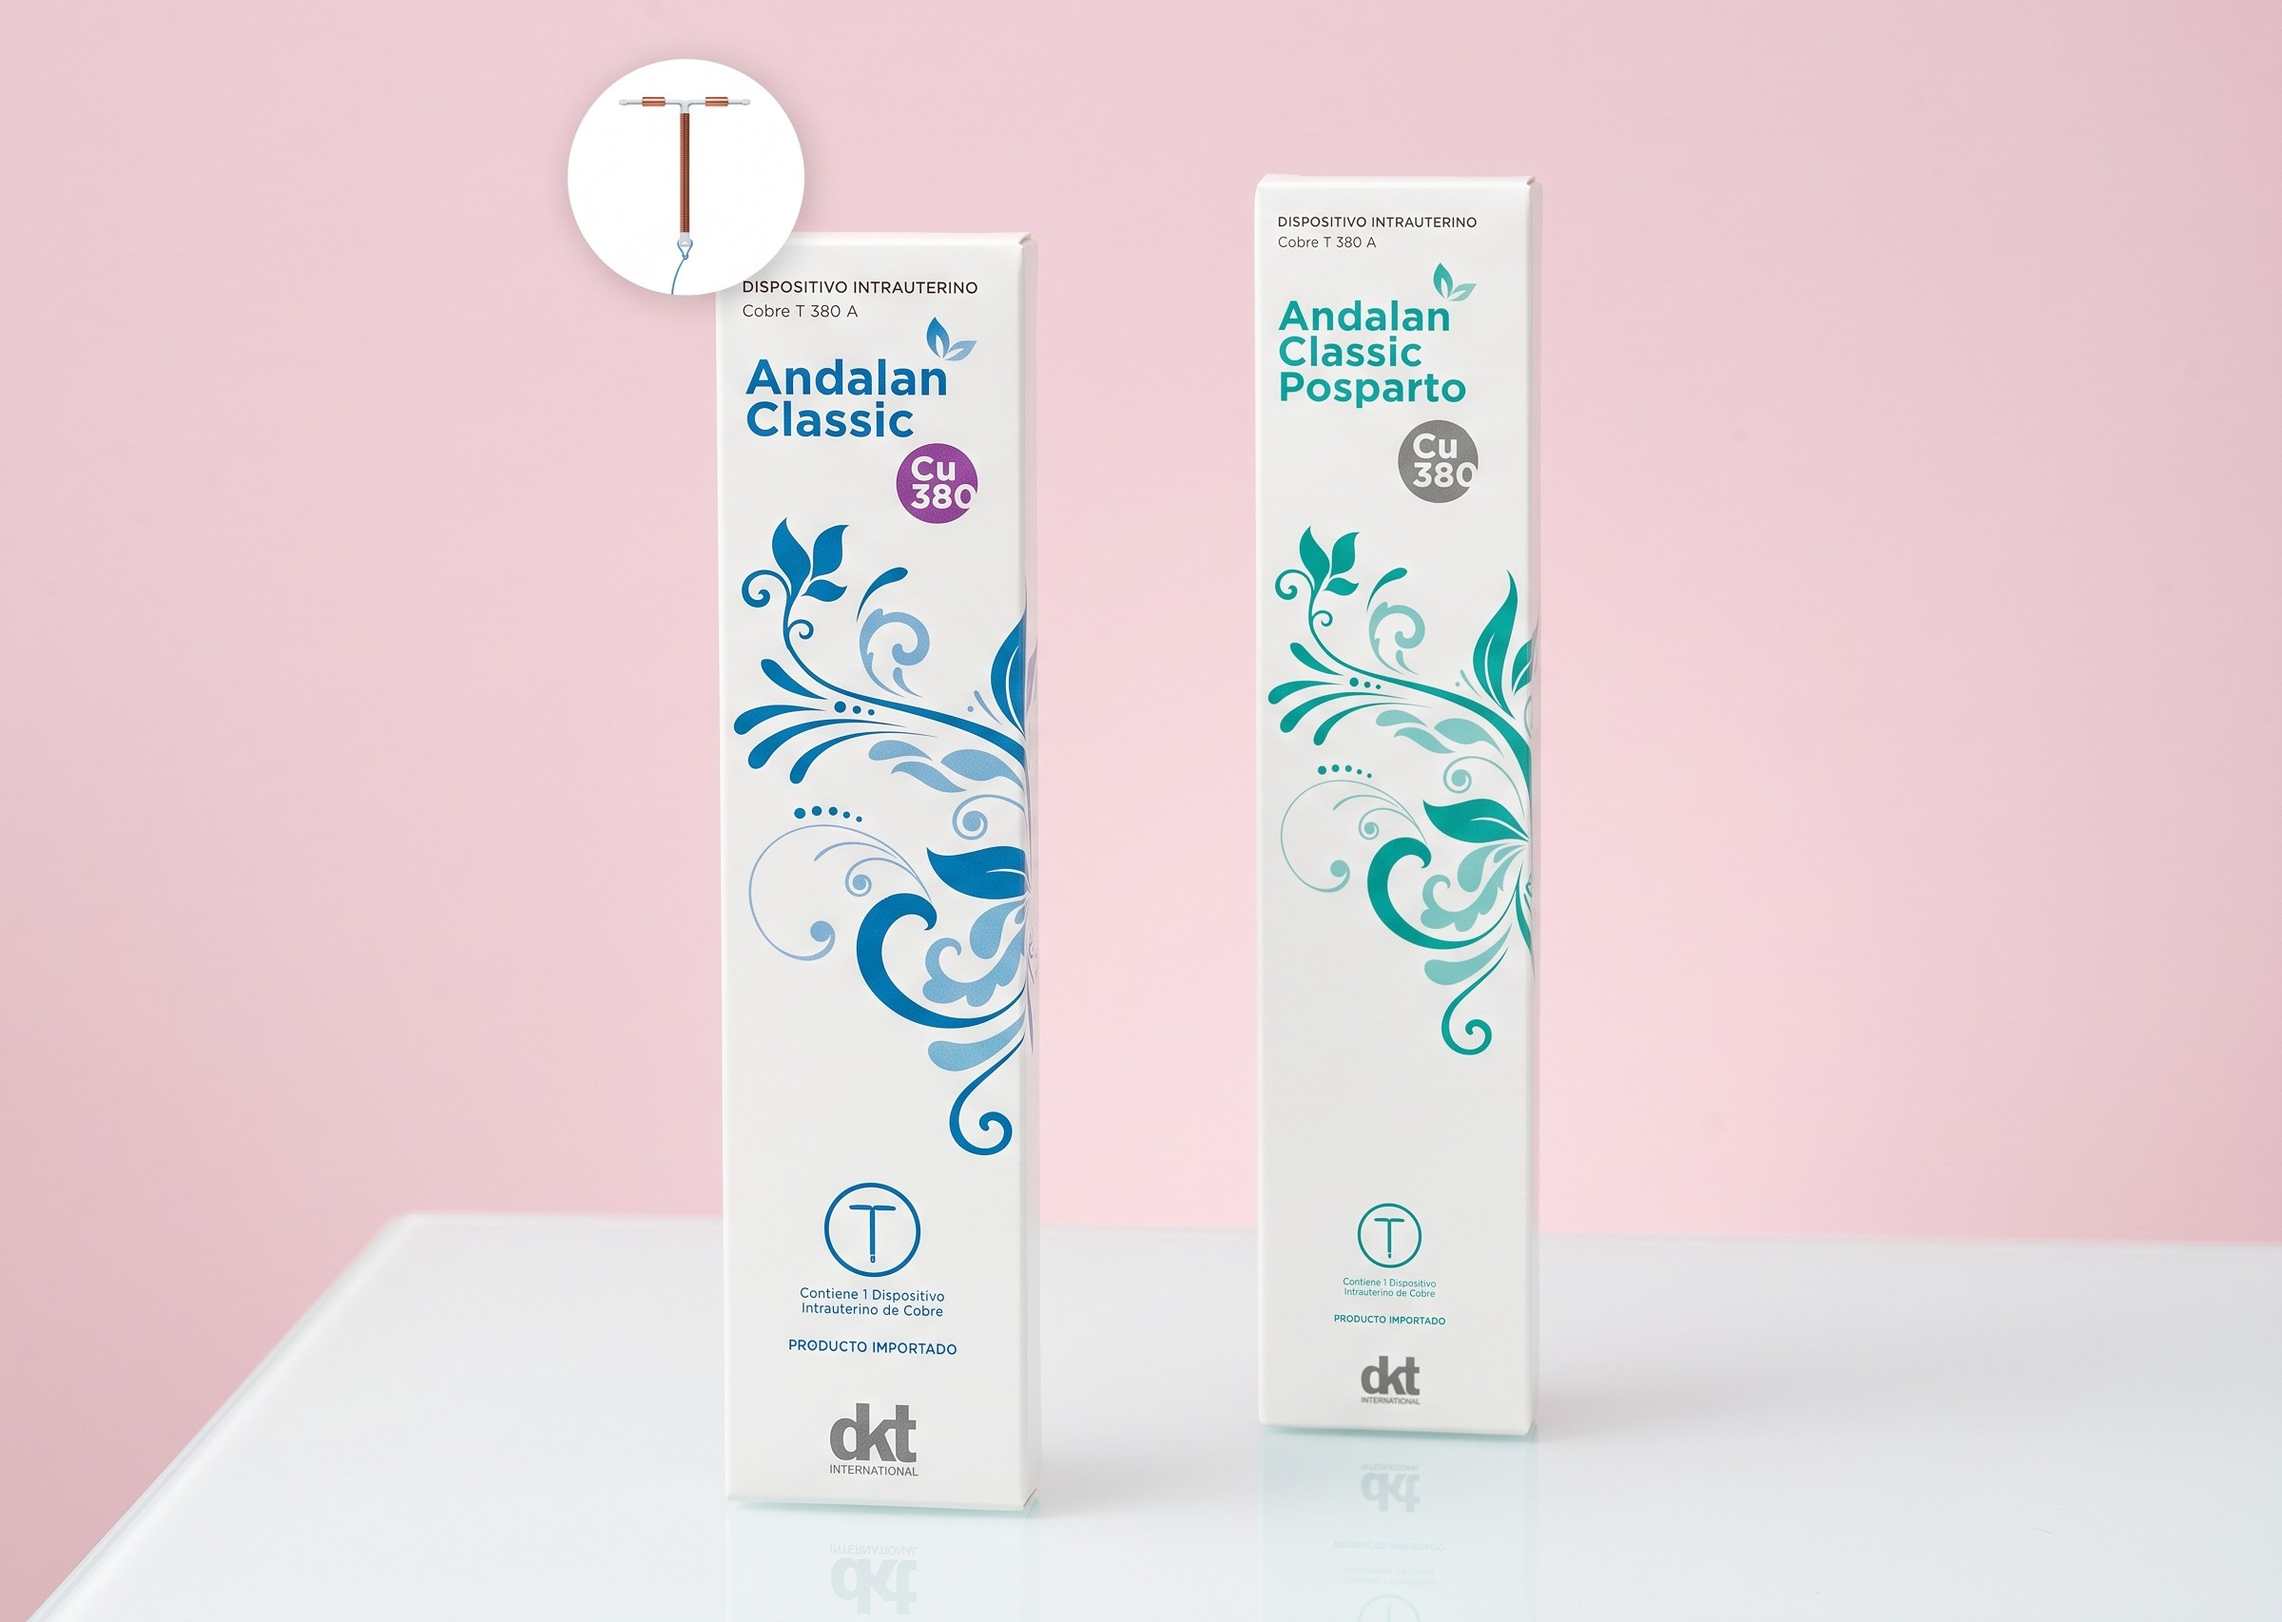
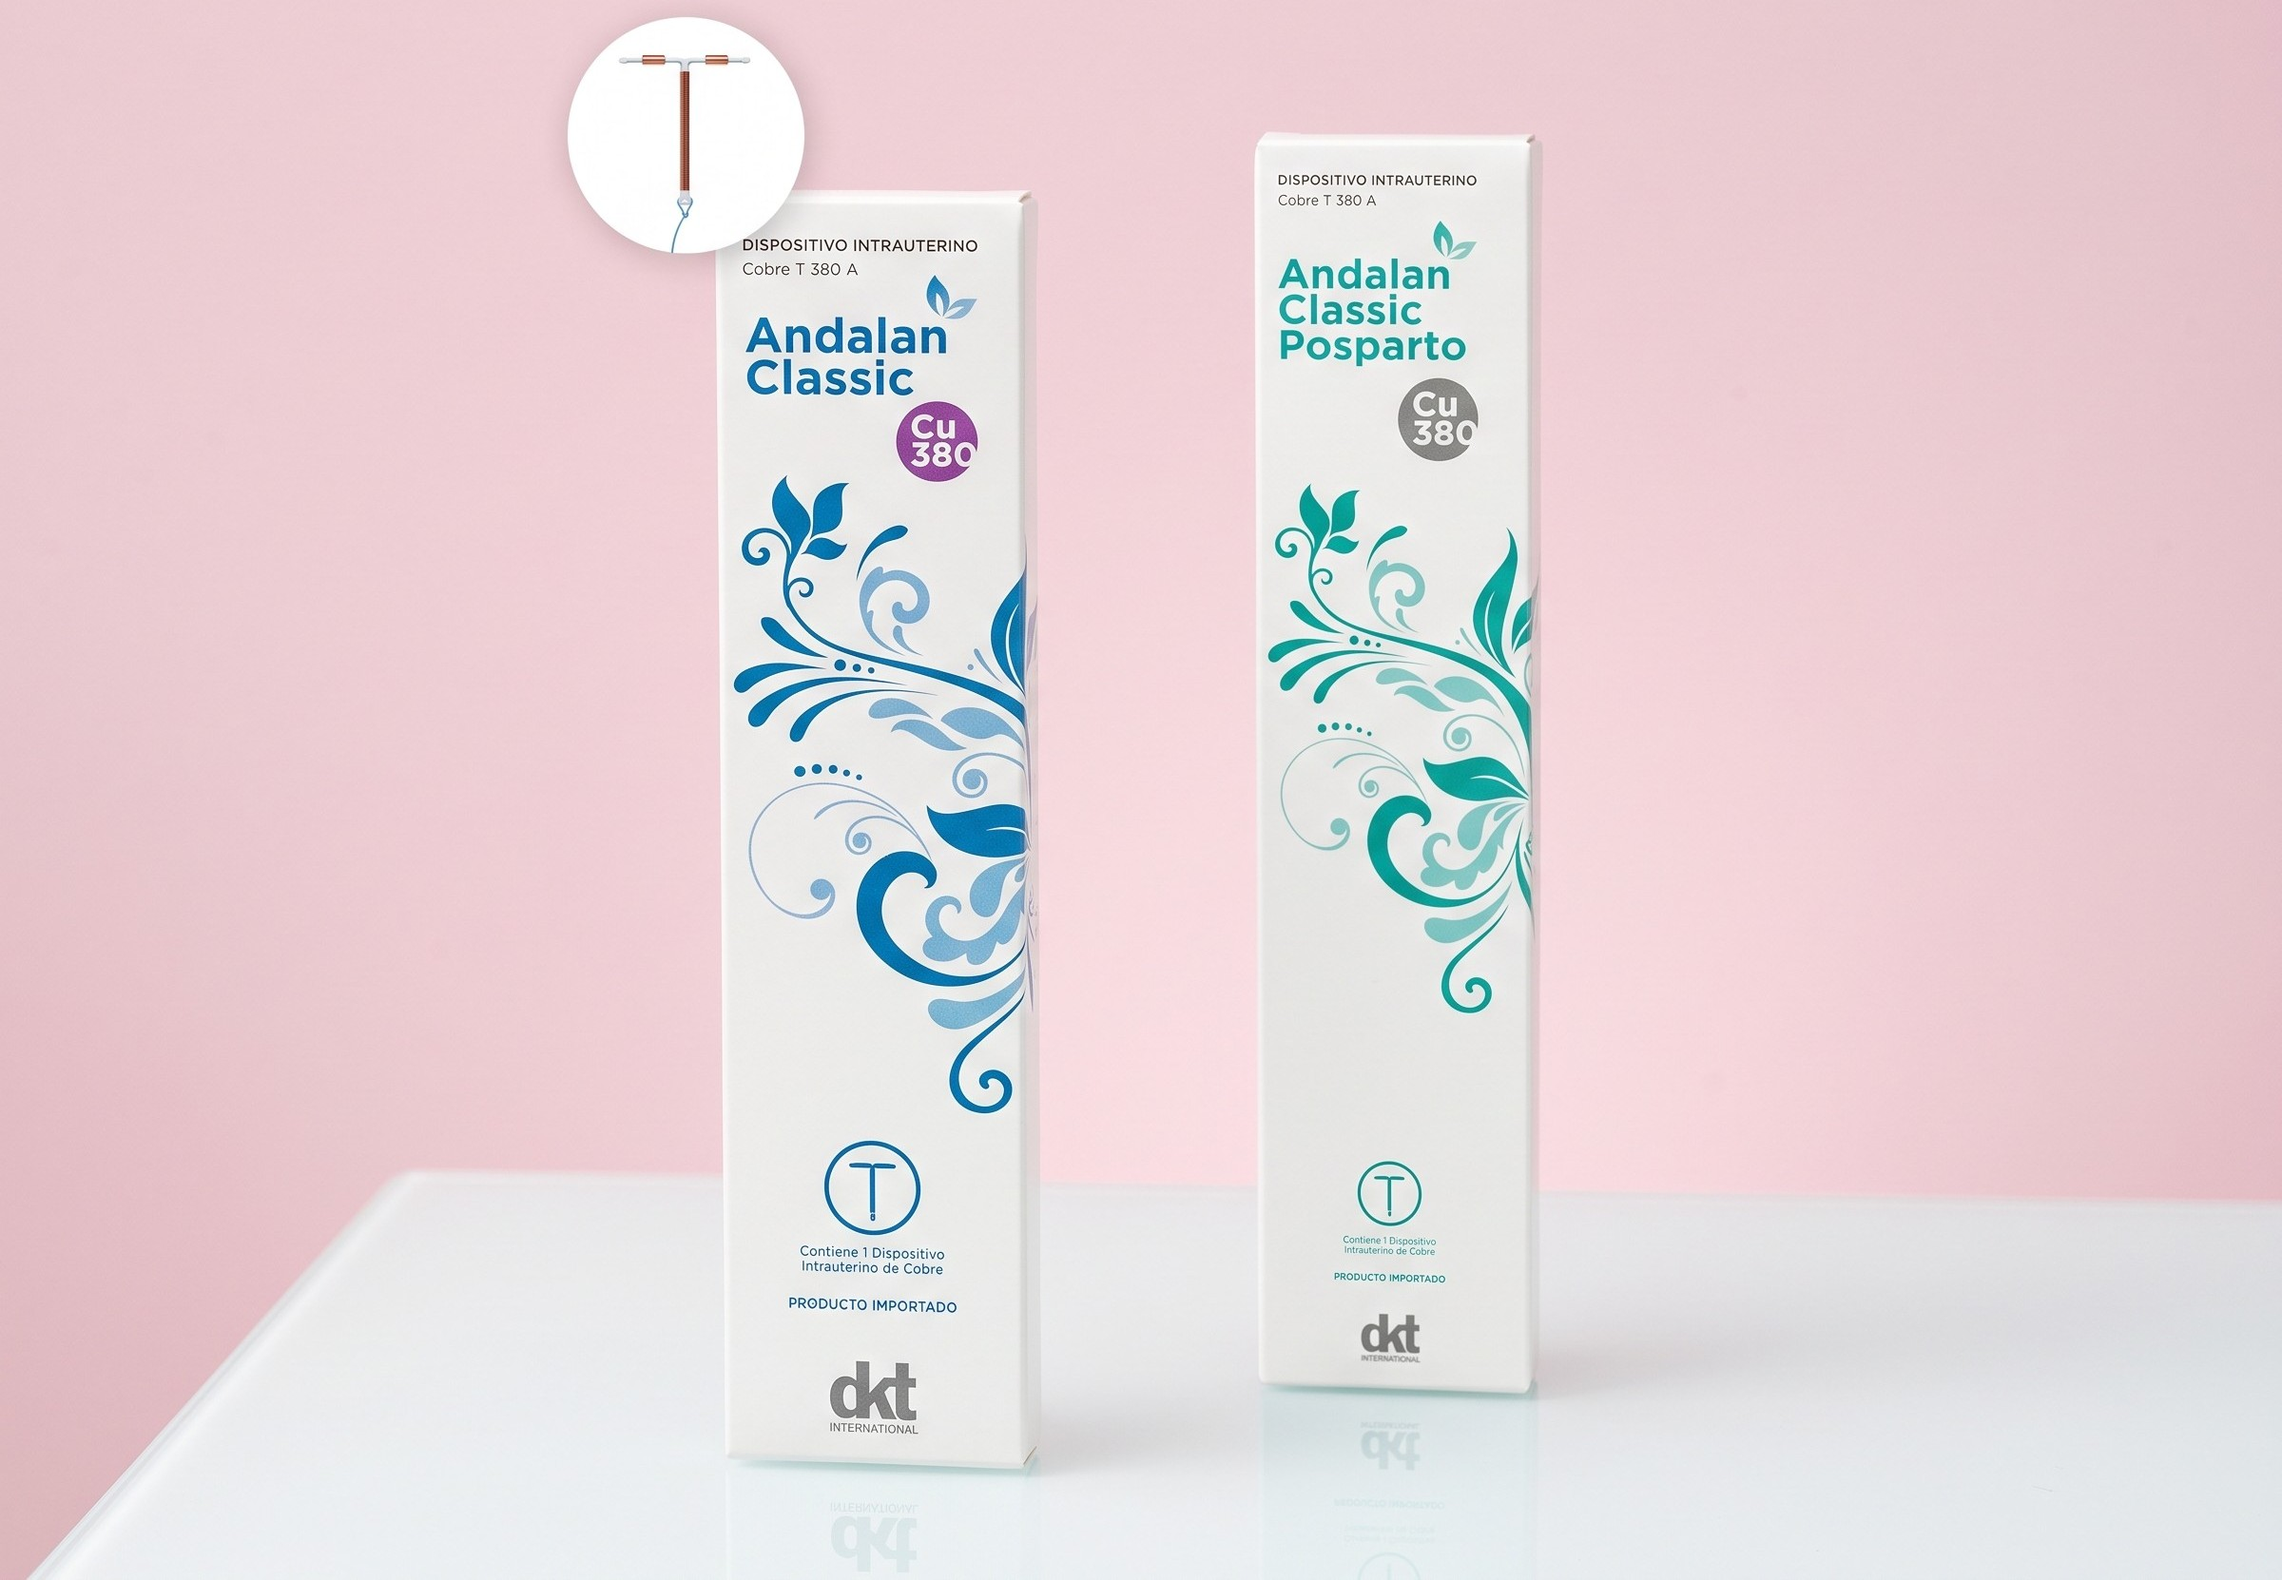
cambio

diff --git a/especializadas.html b/especializadas.html
@@ -445,13 +445,14 @@
 }
 .andalan-photo-panel img {
   width: 100%;
-  aspect-ratio: 3/4;
+  height: 360px;
   object-fit: cover;
+  object-position: center top;
   display: block;
 }
 .andalan-photo-panel .andalan-photo-placeholder {
   width: 100%;
-  aspect-ratio: 3/4;
+  height: 360px;
   display: flex;
   flex-direction: column;
   align-items: center;
